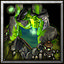
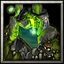
fix worm

diff --git a/prisma/seeders/8Unit.seed.ts b/prisma/seeders/8Unit.seed.ts
@@ -1,6 +1,5 @@
 import { AttackType, PrismaClient, UnitType } from "@prisma/client";
-
-const prisma = new PrismaClient();
+import prisma from "./client";
 
 export default async function main() {
   await prisma.unit.create({
@@ -433,7 +432,7 @@ export default async function main() {
   await prisma.unit.create({
     data: {
       name: "Peón",
-      icon: "units/BTNPeon.jpg",
+      icon: "units/BTNPeon.webp",
       priceGold: 1,
       priceWood: 0,
       health: 3,
@@ -626,7 +625,7 @@ export default async function main() {
   await prisma.unit.create({
     data: {
       name: "Troll berserker",
-      icon: "units/Berserker.jpg",
+      icon: "units/Berseker.jpg",
       priceGold: 1,
       priceWood: 2,
       health: 6,
@@ -749,7 +748,7 @@ export default async function main() {
           name: "Spear",
           description:
             "Wyverna může zdvojnásobit efekt karty oštěpu. Lze zaměřit 2 jednotky jednou kartou nebo jednu jednotku otravit za 2dmg/kolo",
-          icon: "units/spells/PASBTNEnvenomedSpear",
+          icon: "units/spells/PASBTNEnvenomedSpear.webp",
         },
       },
     },
@@ -850,7 +849,7 @@ export default async function main() {
         create: {
           name: "Trade",
           description:
-            "Umožní spoluhráči poslat suroviny (10g max 10w max) 1x za hru.",
+            "Umožní spoluhráči poslat suroviny (10g max 10w max) 1x za hru. / Reroll tokenu pasivního moba",
           icon: "units/spells/trade.webp",
         },
       },
@@ -869,7 +868,7 @@ export default async function main() {
   await prisma.unit.create({
     data: {
       name: "Acolyte",
-      icon: "units/BTNAcolyte.jpg",
+      icon: "units/BTNAcolyte.webp",
       priceGold: 1,
       priceWood: 0,
       race: {
@@ -970,7 +969,7 @@ export default async function main() {
   await prisma.unit.create({
     data: {
       name: "Abomination",
-      icon: "units/PREghoul.jpg",
+      icon: "units/abom.jpg",
       priceGold: 1,
       priceWood: 1,
       health: 9,
@@ -1064,7 +1063,7 @@ export default async function main() {
   await prisma.unit.create({
     data: {
       name: "Necromancer",
-      icon: "units/PRenecro.jpg",
+      icon: "units/PREnecro.jpg",
       priceGold: 1,
       priceWood: 2,
       health: 8,
@@ -1158,7 +1157,7 @@ export default async function main() {
   await prisma.unit.create({
     data: {
       name: "Wyrm",
-      icon: "units/warm.jpg",
+      icon: "units/wyrm.jpg",
       priceGold: 2,
       priceWood: 2,
       health: 9,
@@ -1359,7 +1358,7 @@ export default async function main() {
         create: {
           name: "Wood Hole",
           description:
-            "Obřík stává double damage na poli s lesem(uplatnuje schopnost i když jsou lesy už vytěženy)",
+            "Obřík získá +1 damage na poli s lesem(uplatnuje schopnost i když jsou lesy už vytěženy)",
           icon: "units/spells/BTNGrabTree.webp",
         },
       },
@@ -1482,7 +1481,7 @@ export default async function main() {
       ability: {
         create: {
           name: "Beauty skin",
-          icon: "units/spells/PASBTNMagicImmunity",
+          icon: "units/spells/beautyskin.webp",
           description: "Driady jsou immuní vůči kartám",
         },
       },

diff --git a/prisma/seeders/9Upgrade.seed.ts b/prisma/seeders/9Upgrade.seed.ts
@@ -1,6 +1,5 @@
 import { PrismaClient } from "@prisma/client";
-
-const prisma = new PrismaClient();
+import prisma from "./client";
 
 export default async function main() {
   await prisma.upgrade.create({
@@ -243,7 +242,7 @@ export default async function main() {
       name: "Angry Woods",
       price_gold: 1,
       price_wood: 1,
-      icon: "upgrades/dwarftank.webp",
+      icon: "upgrades/angrywood.webp",
       description: "Vykořeněné budovy obdrží napořád 1 damage",
       tech: 1,
       race: {
@@ -292,7 +291,7 @@ export default async function main() {
       name: "Ent's teleport",
       price_gold: 1,
       price_wood: 0,
-      icon: "upgrades/entstelepoort.webp",
+      icon: "upgrades/entsteleport.webp",
       description:
         "Teleportuje všechny vykořeněné budovy kamkoliv na  mapě (1x) (nelze voda,skály)",
       tech: 2,
@@ -430,7 +429,7 @@ export default async function main() {
       price_wood: 1,
       icon: "upgrades/night.webp",
       description:
-        "Elfové v noci dokážou na jedno kolo nakupovat věci bez požadavku přitomnosti . (přes celou mapu na dálku – každá budova lze využít pouze 1x ( napřikald když jsou 2 budovy brani karet lze využít pouze jednu.) platí i na ally elfa.",
+        "Elfové v noci dokážou na jedno kolo nakupovat věci bez požadavku přitomnosti . (přes celou mapu na dálku – každá budova lze využít pouze 1x ( napřiklad když jsou 2 budovy brani karet lze využít pouze jednu.) platí i na ally elfa. (ally obchod + obchod rasy)",
       tech: 1,
       race: {
         connect: {
@@ -816,7 +815,7 @@ export default async function main() {
       name: "Damn Well",
       price_gold: 1,
       price_wood: 1,
-      icon: "upgrades/cursedgoldmine.webp",
+      icon: "upgrades/damnwell.webp",
       description:
         "Umožní vlastníkovi postavit zatracenou studnu , přes kterou si místo tahu braní/použití karty může kdokoliv ( ally,vy) vyměnit kartu která se mu nehodí pod podmínkou že jeho jednotka stojí na poli se studnou.Kartu, vrací hráč do spodu balíčku a poté si dobírá novou.(Studna má 15hp).Lze postavit všude (krom vody,skal) přes celou mapu. – 1Karta/kolo !",
       tech: 3,
@@ -835,7 +834,7 @@ export default async function main() {
       price_wood: 2,
       icon: "upgrades/sacrificedagger.webp",
       description:
-        "Až 5x v jednom kole smíte obětovat svoji,nebo spojeneckou jednotku a jejími současnými životy,doplnit životy svého nebo spojeneckého hrdiny. Lze použít v jakémkoliv kole jakýkoliv počet obětování. Jde použít (5x).",
+        "Až 3x v jednom kole smíte obětovat svoji,nebo spojeneckou jednotku a jejími současnými životy,doplnit životy svého nebo spojeneckého hrdiny. Lze použít v jakémkoliv kole jakýkoliv počet obětování. Jde použít (5x).",
       tech: 1,
       race: {
         connect: {

diff --git a/prisma/seeders/2Hero.seed.ts b/prisma/seeders/2Hero.seed.ts
@@ -1,6 +1,5 @@
 import { AttackType, PrismaClient } from "@prisma/client";
-
-const prisma = new PrismaClient();
+import prisma from "./client";
 
 export default async function main() {
   const orcRace = await prisma.race.findFirst({ where: { name: "Orc" } });
@@ -55,7 +54,7 @@ export default async function main() {
               name: "Reincarnation Aura (aura)",
               description:
                 "Hrdinům se každe kolo obnoví jeden život. (platí po dobu života chieftaina) i pro spojence",
-              icon: "hero/BTNReincarnationAura.webp",
+              icon: "hero/reinaura.webp",
             },
           ],
         },
@@ -414,7 +413,7 @@ export default async function main() {
       name: "Priestess of the Moon",
       cost: 6,
       icon: "hero/BTNPriestessOfTheMoon.webp",
-      attack_type: AttackType.Melee,
+      attack_type: AttackType.AntiAir,
       race: {
         connect: {
           id: elfRace?.id,
@@ -542,7 +541,7 @@ export default async function main() {
       name: "Dread lord",
       cost: 6,
       icon: "hero/BTNHeroDreadLord.webp",
-      attack_type: AttackType.AntiAir,
+      attack_type: AttackType.Melee,
       race: {
         connect: {
           id: undeadRace?.id,

diff --git a/prisma/seeders/7Building.seed.ts b/prisma/seeders/7Building.seed.ts
@@ -1,6 +1,5 @@
 import { PrismaClient } from "@prisma/client";
-
-const prisma = new PrismaClient();
+import prisma from "./client";
 
 ///NE
 
@@ -352,8 +351,8 @@ export default async function main() {
     data: {
       name: "Beastiary",
       icon: "buildings/Beastiary.webp",
-      priceGold: 1,
-      priceWood: 3,
+      priceGold: 2,
+      priceWood: 2,
       description:
         "Budova ve které můžete stavět air jednotky. Každá jednotka stojí stejně jako budova.",
       race: {
@@ -367,7 +366,7 @@ export default async function main() {
   await prisma.building.create({
     data: {
       name: "Watch Tower",
-      icon: "buildings/Watch.webp",
+      icon: "buildings/Watch_Tower.webp",
       priceGold: 3,
       priceWood: 3,
       description: "Věž. Dostřel 3, damage 2",

diff --git a/prisma/seeders/6Card.seed.ts b/prisma/seeders/6Card.seed.ts
@@ -1,6 +1,5 @@
 import { AttackType, PrismaClient, UnitType } from "@prisma/client";
-
-const prisma = new PrismaClient();
+import prisma from "./client";
 
 export default async function main() {
   await prisma.card.create({

diff --git a/prisma/seeders/3Item.seed.ts b/prisma/seeders/3Item.seed.ts
@@ -1,6 +1,5 @@
 import { ItemObtainability, ItemType, PrismaClient } from "@prisma/client";
-
-const prisma = new PrismaClient();
+import prisma from "./client";
 
 export default async function main() {
   ///General items

diff --git a/prisma/seeders/5Creep.seed.ts b/prisma/seeders/5Creep.seed.ts
@@ -1,6 +1,5 @@
 import { AttackType, PrismaClient, UnitType } from "@prisma/client";
-
-const prisma = new PrismaClient();
+import prisma from "./client";
 
 export default async function main() {
   const level1Items = [

diff --git a/prisma/seeders/10PassiveMob.seed.ts b/prisma/seeders/10PassiveMob.seed.ts
@@ -1,6 +1,6 @@
 import { PrismaClient } from "@prisma/client";
 
-const prisma = new PrismaClient();
+import prisma from "./client";
 
 export default async function main() {
     await prisma.passiveMob.create({

diff --git a/prisma/seeders/4Map.seed.ts b/prisma/seeders/4Map.seed.ts
@@ -1,6 +1,5 @@
 import { PrismaClient } from "@prisma/client";
-
-const prisma = new PrismaClient();
+import prisma from "./client";
 
 export default async function main() {
   await prisma.map.createMany({

diff --git a/prisma/seeders/1Race.seed.ts b/prisma/seeders/1Race.seed.ts
@@ -1,6 +1,4 @@
-import { PrismaClient } from "@prisma/client";
-
-const prisma = new PrismaClient();
+import prisma from "./client";
 
 export default async function main() {
   await prisma.race.create({

diff --git a/prisma/seeders/client.ts b/prisma/seeders/client.ts
@@ -1,0 +1,5 @@
+import { PrismaClient } from '@prisma/client'
+
+let prisma = new PrismaClient()
+
+export default prisma;
